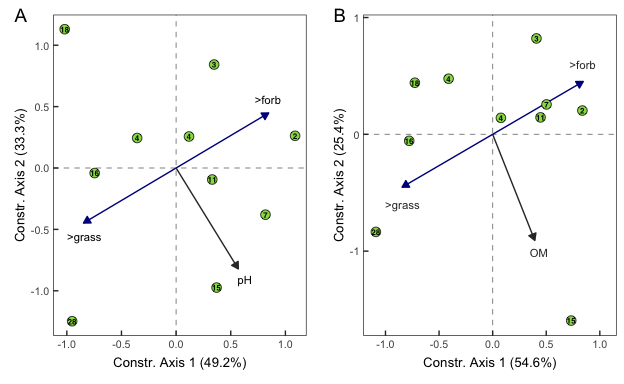
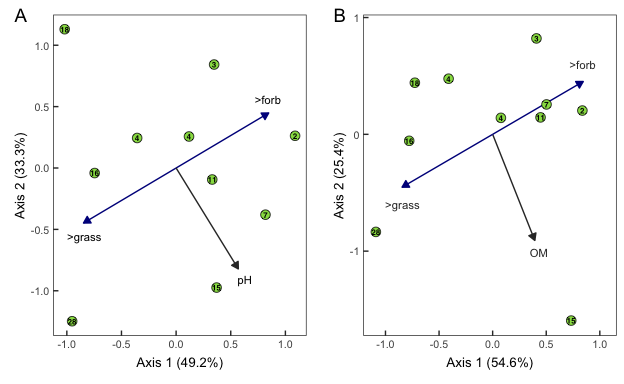
REFRESHED reports

diff --git a/fungal_ecology.md b/fungal_ecology.md
@@ -2,7 +2,7 @@ Results: Soil Fungal Communities
 ================
 Beau Larkin
 
-Last updated: 09 December, 2025
+Last updated: 10 December, 2025
 
 - [Description](#description)
 - [Packages and libraries](#packages-and-libraries)
@@ -400,7 +400,7 @@ pfg_pct <-
 gf_pct_fig <- 
   ggplot(pfg_pct, aes(x = fct_reorder(field_name, -gf_index), y = pct_cvr, group = pfg)) +
   geom_step(aes(color = pfg)) +
-  geom_point(aes(color = pfg)) +
+  geom_point(aes(color = pfg), shape = 21, size = 1.8, fill = "white", stroke = 0.9) +
   scale_color_manual(name = "Functional group", values = gfi_cols) +
   labs(x = NULL, y = "Percent cover") +
   theme_cor+
@@ -409,51 +409,27 @@ gf_pct_fig <-
 yrs_fig <- 
   ggplot(gfi_yrs %>% mutate(grp = "a"), aes(x = fct_reorder(field_name, -gf_index), y = yr_since, group = grp)) +
   geom_step() +
-  geom_point() +
+  geom_point(shape = 21, size = 1.8, fill = "white", color = "black", stroke = 0.9) +
   labs(x = NULL, y = "Yrs. since resto.") +
   theme_cor +
   theme(plot.tag = element_text(size = 14, face = 1, hjust = 0),
-        plot.tag.position = c(0, 1.1))
-# Wrangle gf_index and label positions to align panel D with previous x axes
-loc_space <- (max(gfi_yrs$gf_index) - min(gfi_yrs$gf_index)) / length(gfi_yrs$gf_index)
-gfi_loc_data <- 
-  bind_rows(
-    gfi_yrs %>% mutate(grp = "Value"),
-    gfi_yrs %>% 
-      mutate(temp = c(max(gfi_yrs$gf_index) - (loc_space * 0.15), # Alignment not exact, may need post-production work
-                      max(gfi_yrs$gf_index) - (loc_space * (c(1:9) * 1.15))),
-             grp = "Site") %>% 
-      select(-gf_index, field_name, gf_index = temp, yr_since)
-  ) %>% 
-  mutate(grp = factor(grp, levels = c("Value", "Site")))
-gfi_seg_data <- 
-  gfi_yrs %>% 
-  mutate(y0 = 1) %>% 
-  select(field_name, x0 = gf_index, y0) %>% 
-  left_join(
-    gfi_loc_data %>% 
-      filter(grp == "Site") %>% 
-      mutate(y1 = 2) %>% 
-      select(field_name, x1 = gf_index, y1),
-    by = join_by(field_name)
-    ) %>% 
-  arrange(x0)
+        plot.tag.position = c(0, 1.15))
 gfi_loc_fig <- 
-  ggplot(gfi_loc_data, aes(x = -gf_index, y = grp)) + 
-  geom_point(shape = NA) +
-  geom_segment(data = gfi_seg_data, aes(x = -x0, y = y0, xend = -x1, yend = y1)) +
-  geom_point() +
+  ggplot(gfi_yrs, aes(x = -gf_index, y = rep("PCA\nAxis 1", 10))) + 
+  geom_hline(yintercept = 1, linetype = "dashed", linewidth = 0.3, color = "gray20") +
+  geom_point(shape = 21, size = 1.8, fill = "white", color = "black", stroke = 0.9) +
   labs(y = NULL, x = "Grass-forb index") +
   theme_cor +
   theme(plot.tag = element_text(size = 14, face = 1, hjust = 0),
-        plot.tag.position = c(0, 1.1))
+        plot.tag.position = c(0, 1.1),
+        axis.text.y = element_text(hjust = 0))
 ```
 
 #### Unified figure
 
 ``` r
 pfg_pct_fig <- (pfg_comp_fig / plot_spacer() / gf_pct_fig / plot_spacer() / yrs_fig / plot_spacer() / gfi_loc_fig) +
-  plot_layout(heights = c(1,0.01,1,0.01,0.5,0.01,0.3))  +
+  plot_layout(heights = c(1,0.01,1,0.01,0.5,0.01,0.2))  +
   plot_annotation(tag_levels = 'A') 
 ```
 
@@ -1380,8 +1356,7 @@ mod_step
 ```
 
     ## 
-    ## Call: dbrda(formula = spe_its_wi_resto ~ Condition(env_cov) + gf_index + pH, data = env_expl, distance =
-    ## "bray")
+    ## Call: dbrda(formula = spe_its_wi_resto ~ Condition(env_cov) + gf_index + pH, data = env_expl, distance = "bray")
     ## 
     ##               Inertia Proportion Rank
     ## Total          2.3383     1.0000     
@@ -1507,8 +1482,8 @@ mod_scor_bp <- bind_rows(
 ``` r
 fig6a <- 
   ggplot(mod_scor_site, aes(x = dbRDA1, y = dbRDA2)) +
-  geom_hline(yintercept = 0, linetype = "dashed", color = "gray50", linewidth = 0.3) +
-  geom_vline(xintercept = 0, linetype = "dashed", color = "gray50", linewidth = 0.3) +
+  # geom_hline(yintercept = 0, linetype = "dashed", color = "gray50", linewidth = 0.3) +
+  # geom_vline(xintercept = 0, linetype = "dashed", color = "gray50", linewidth = 0.3) +
   geom_segment(data = mod_scor_bp, 
                aes(x = origin, xend = dbRDA1, y = origin, yend = dbRDA2), 
                arrow = arrow(length = unit(2, "mm"), type = "closed"),
@@ -1520,8 +1495,8 @@ fig6a <-
   geom_point(fill = ft_pal[2], size = sm_size, stroke = lw, shape = 21) +
   geom_text(aes(label = yr_since), size = yrtx_size, family = "sans", fontface = 2, color = "black") +
   labs(
-    x = paste0("Constr. Axis 1 (", mod_pars_eig[1], "%)"),
-    y = paste0("Constr. Axis 2 (", mod_pars_eig[2], "%)")) +
+    x = paste0("Axis 1 (", mod_pars_eig[1], "%)"),
+    y = paste0("Axis 2 (", mod_pars_eig[2], "%)")) +
   theme_ord +
   theme(legend.position = "none",
         plot.tag = element_text(size = 14, face = 1, hjust = 0),
@@ -2986,8 +2961,7 @@ amf_mod_step
 ```
 
     ## 
-    ## Call: dbrda(formula = spe_amf_wi_resto ~ Condition(env_cov) + gf_index + OM, data = env_expl, distance =
-    ## "bray")
+    ## Call: dbrda(formula = spe_amf_wi_resto ~ Condition(env_cov) + gf_index + OM, data = env_expl, distance = "bray")
     ## 
     ##               Inertia Proportion Rank
     ## Total          1.7516     1.0000     
@@ -3110,8 +3084,8 @@ amf_mod_scor_bp <- bind_rows(
 ``` r
 fig6b <-
   ggplot(amf_mod_scor_site, aes(x = (dbRDA1 * -1), y = dbRDA2)) +
-  geom_hline(yintercept = 0, linetype = "dashed", color = "gray50", linewidth = 0.3) +
-  geom_vline(xintercept = 0, linetype = "dashed", color = "gray50", linewidth = 0.3) +
+  # geom_hline(yintercept = 0, linetype = "dashed", color = "gray50", linewidth = 0.3) +
+  # geom_vline(xintercept = 0, linetype = "dashed", color = "gray50", linewidth = 0.3) +
   geom_segment(data = amf_mod_scor_bp,
                aes(x = origin, xend = (dbRDA1 * -1), y = origin, yend = dbRDA2),
                arrow = arrow(length = unit(2, "mm"), type = "closed"),
@@ -3123,8 +3097,8 @@ fig6b <-
   geom_point(fill = ft_pal[2], size = sm_size, stroke = lw, shape = 21) +
   geom_text(aes(label = yr_since), size = yrtx_size, family = "sans", fontface = 2, color = "black") +
   labs(
-    x = paste0("Constr. Axis 1 (", amf_mod_pars_eig[1], "%)"),
-    y = paste0("Constr. Axis 2 (", amf_mod_pars_eig[2], "%)")) +
+    x = paste0("Axis 1 (", amf_mod_pars_eig[1], "%)"),
+    y = paste0("Axis 2 (", amf_mod_pars_eig[2], "%)")) +
   lims(x = c(-1.1,1.05), y = c(-1.6,0.9)) +
   theme_ord +
   theme(legend.position = "none",

diff --git a/edaphic.md b/edaphic.md
@@ -2,7 +2,7 @@ Soil properties
 ================
 Beau Larkin
 
-Last updated: 09 December, 2025
+Last updated: 10 December, 2025
 
 - [Description](#description)
 - [Packages and libraries](#packages-and-libraries)
@@ -112,14 +112,10 @@ summary(soil_pca)
     ## Eigenvalues, and their contribution to the variance 
     ## 
     ## Importance of components:
-    ##                          PC1    PC2    PC3    PC4     PC5     PC6     PC7     PC8     PC9     PC10     PC11
-    ## Eigenvalue            4.4790 2.3301 1.7896 1.4132 1.16188 0.70120 0.38467 0.27747 0.20308 0.129286 0.069183
-    ## Proportion Explained  0.3445 0.1792 0.1377 0.1087 0.08938 0.05394 0.02959 0.02134 0.01562 0.009945 0.005322
-    ## Cumulative Proportion 0.3445 0.5238 0.6614 0.7701 0.85952 0.91346 0.94305 0.96440 0.98002 0.989963 0.995285
-    ##                          PC12     PC13
-    ## Eigenvalue            0.04186 0.019432
-    ## Proportion Explained  0.00322 0.001495
-    ## Cumulative Proportion 0.99851 1.000000
+    ##                          PC1    PC2    PC3    PC4     PC5     PC6     PC7     PC8     PC9     PC10     PC11    PC12     PC13
+    ## Eigenvalue            4.4790 2.3301 1.7896 1.4132 1.16188 0.70120 0.38467 0.27747 0.20308 0.129286 0.069183 0.04186 0.019432
+    ## Proportion Explained  0.3445 0.1792 0.1377 0.1087 0.08938 0.05394 0.02959 0.02134 0.01562 0.009945 0.005322 0.00322 0.001495
+    ## Cumulative Proportion 0.3445 0.5238 0.6614 0.7701 0.85952 0.91346 0.94305 0.96440 0.98002 0.989963 0.995285 0.99851 1.000000
 
 Axes 1 and 2 explain 52% of the variation in sites. Axes 1 through 6
 account for 91%.

diff --git a/sites.md b/sites.md
@@ -2,7 +2,7 @@ Site locations and pairwise distances
 ================
 Beau Larkin
 
-Last updated: 09 December, 2025
+Last updated: 10 December, 2025
 
 - [Description](#description)
 - [Package and library installation](#package-and-library-installation)

diff --git a/sequence_data.md b/sequence_data.md
@@ -2,7 +2,7 @@ Species Data: ETL and Diagnostics
 ================
 Beau Larkin
 
-Last updated: 09 December, 2025
+Last updated: 10 December, 2025
 
 - [Description](#description)
 - [Resources](#resources)

diff --git a/functions.md b/functions.md
@@ -2,7 +2,7 @@ Supplement: Functions
 ================
 Beau Larkin
 
-Last updated: 09 December, 2025
+Last updated: 10 December, 2025
 
 - [Description](#description)
   - [Sequence data processing
